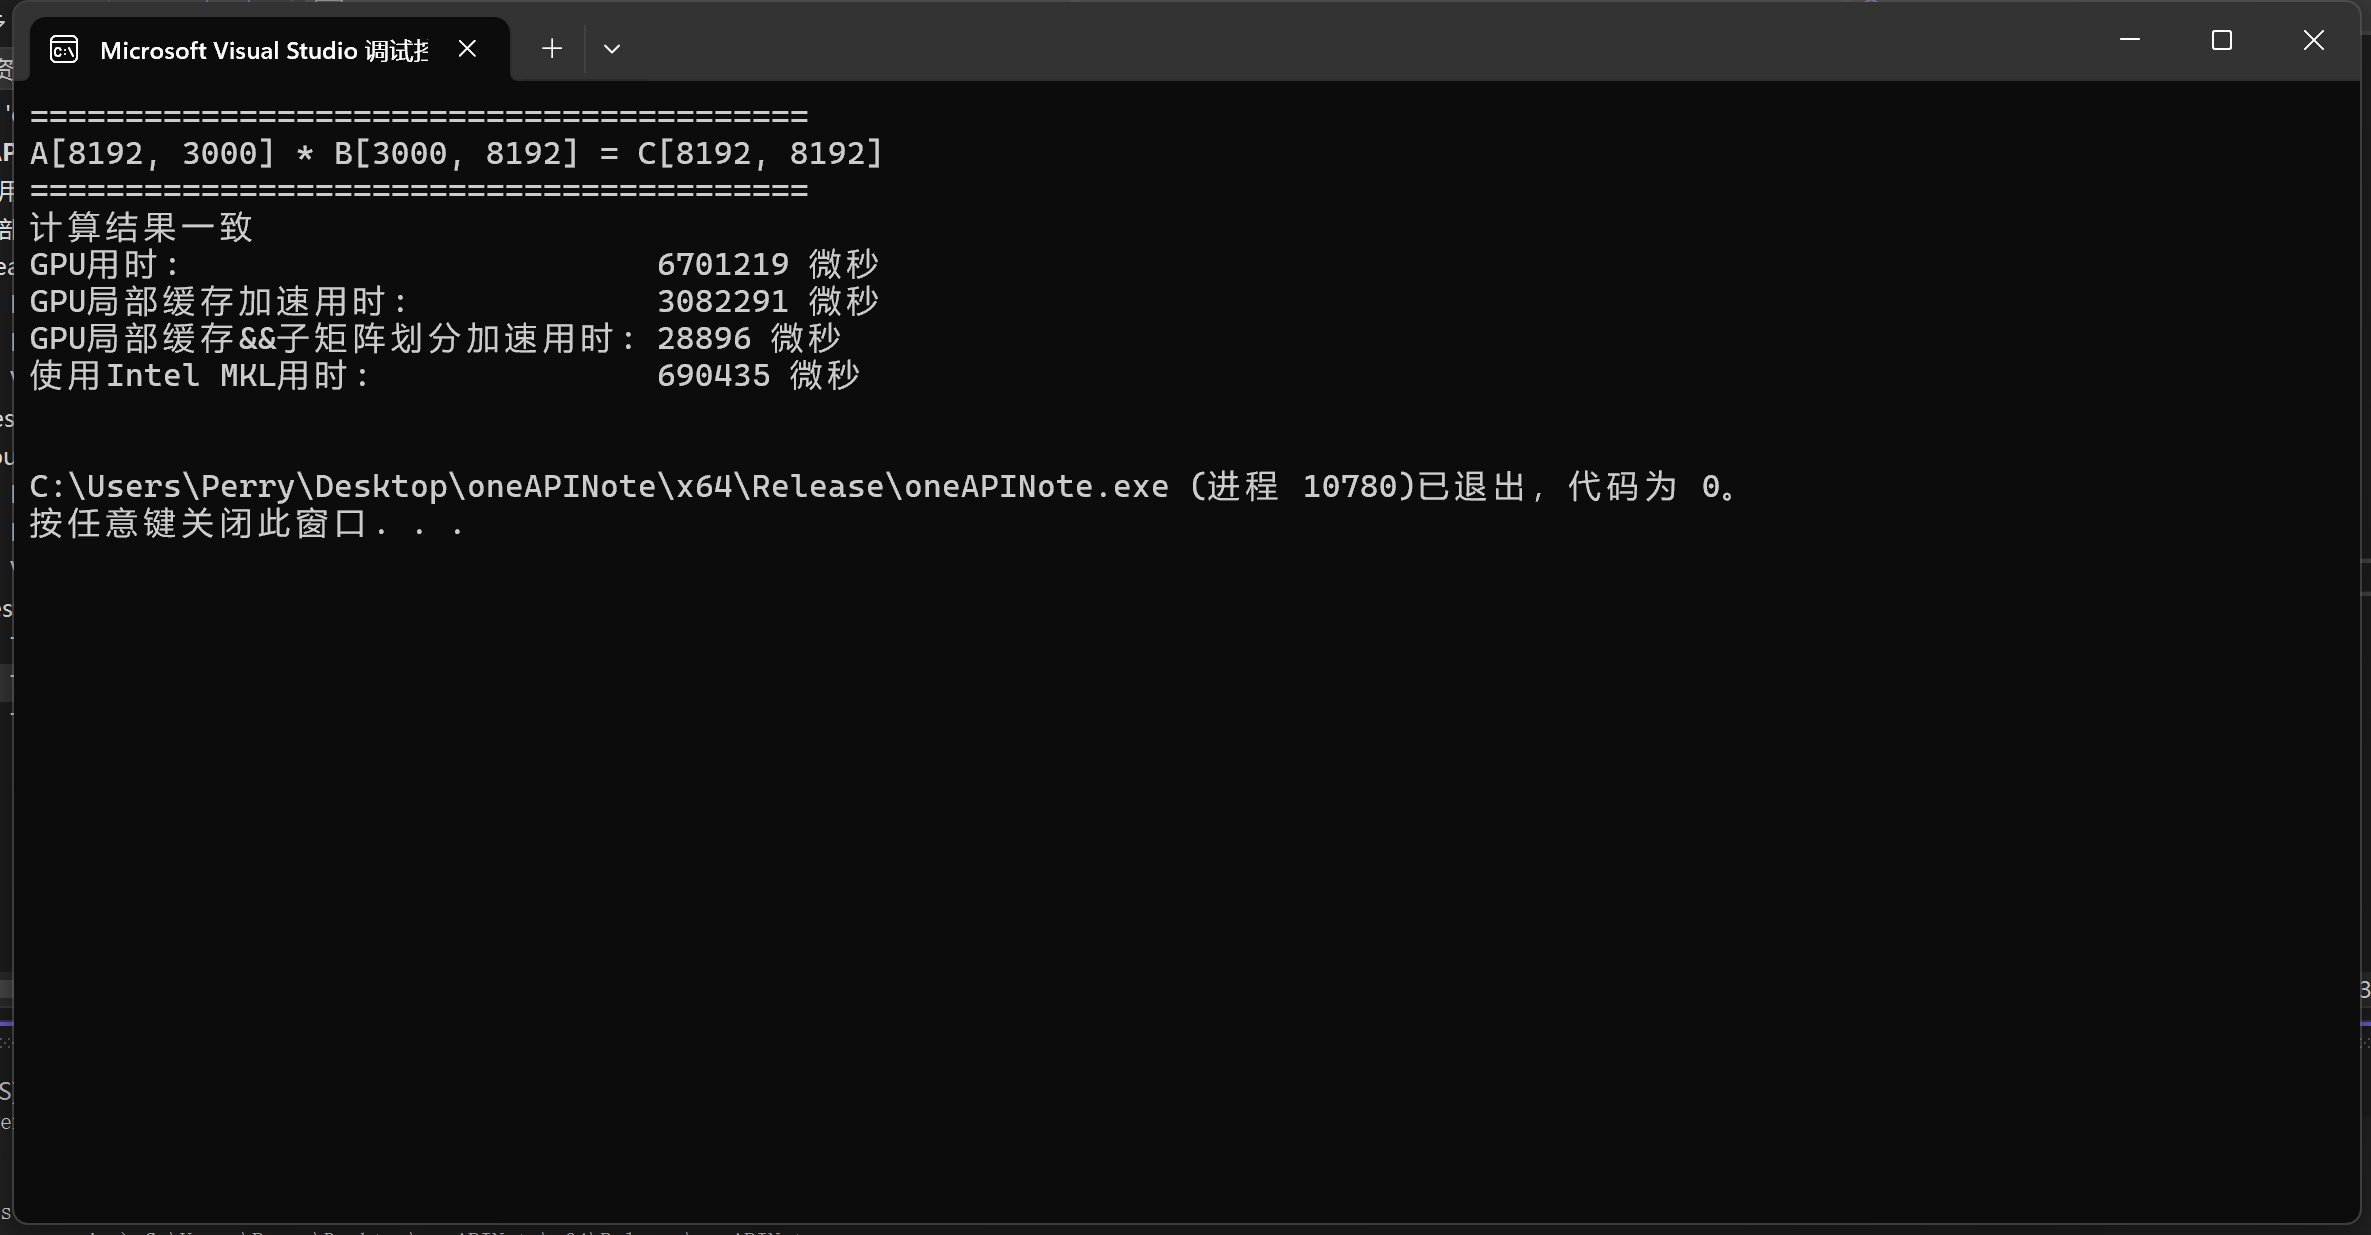
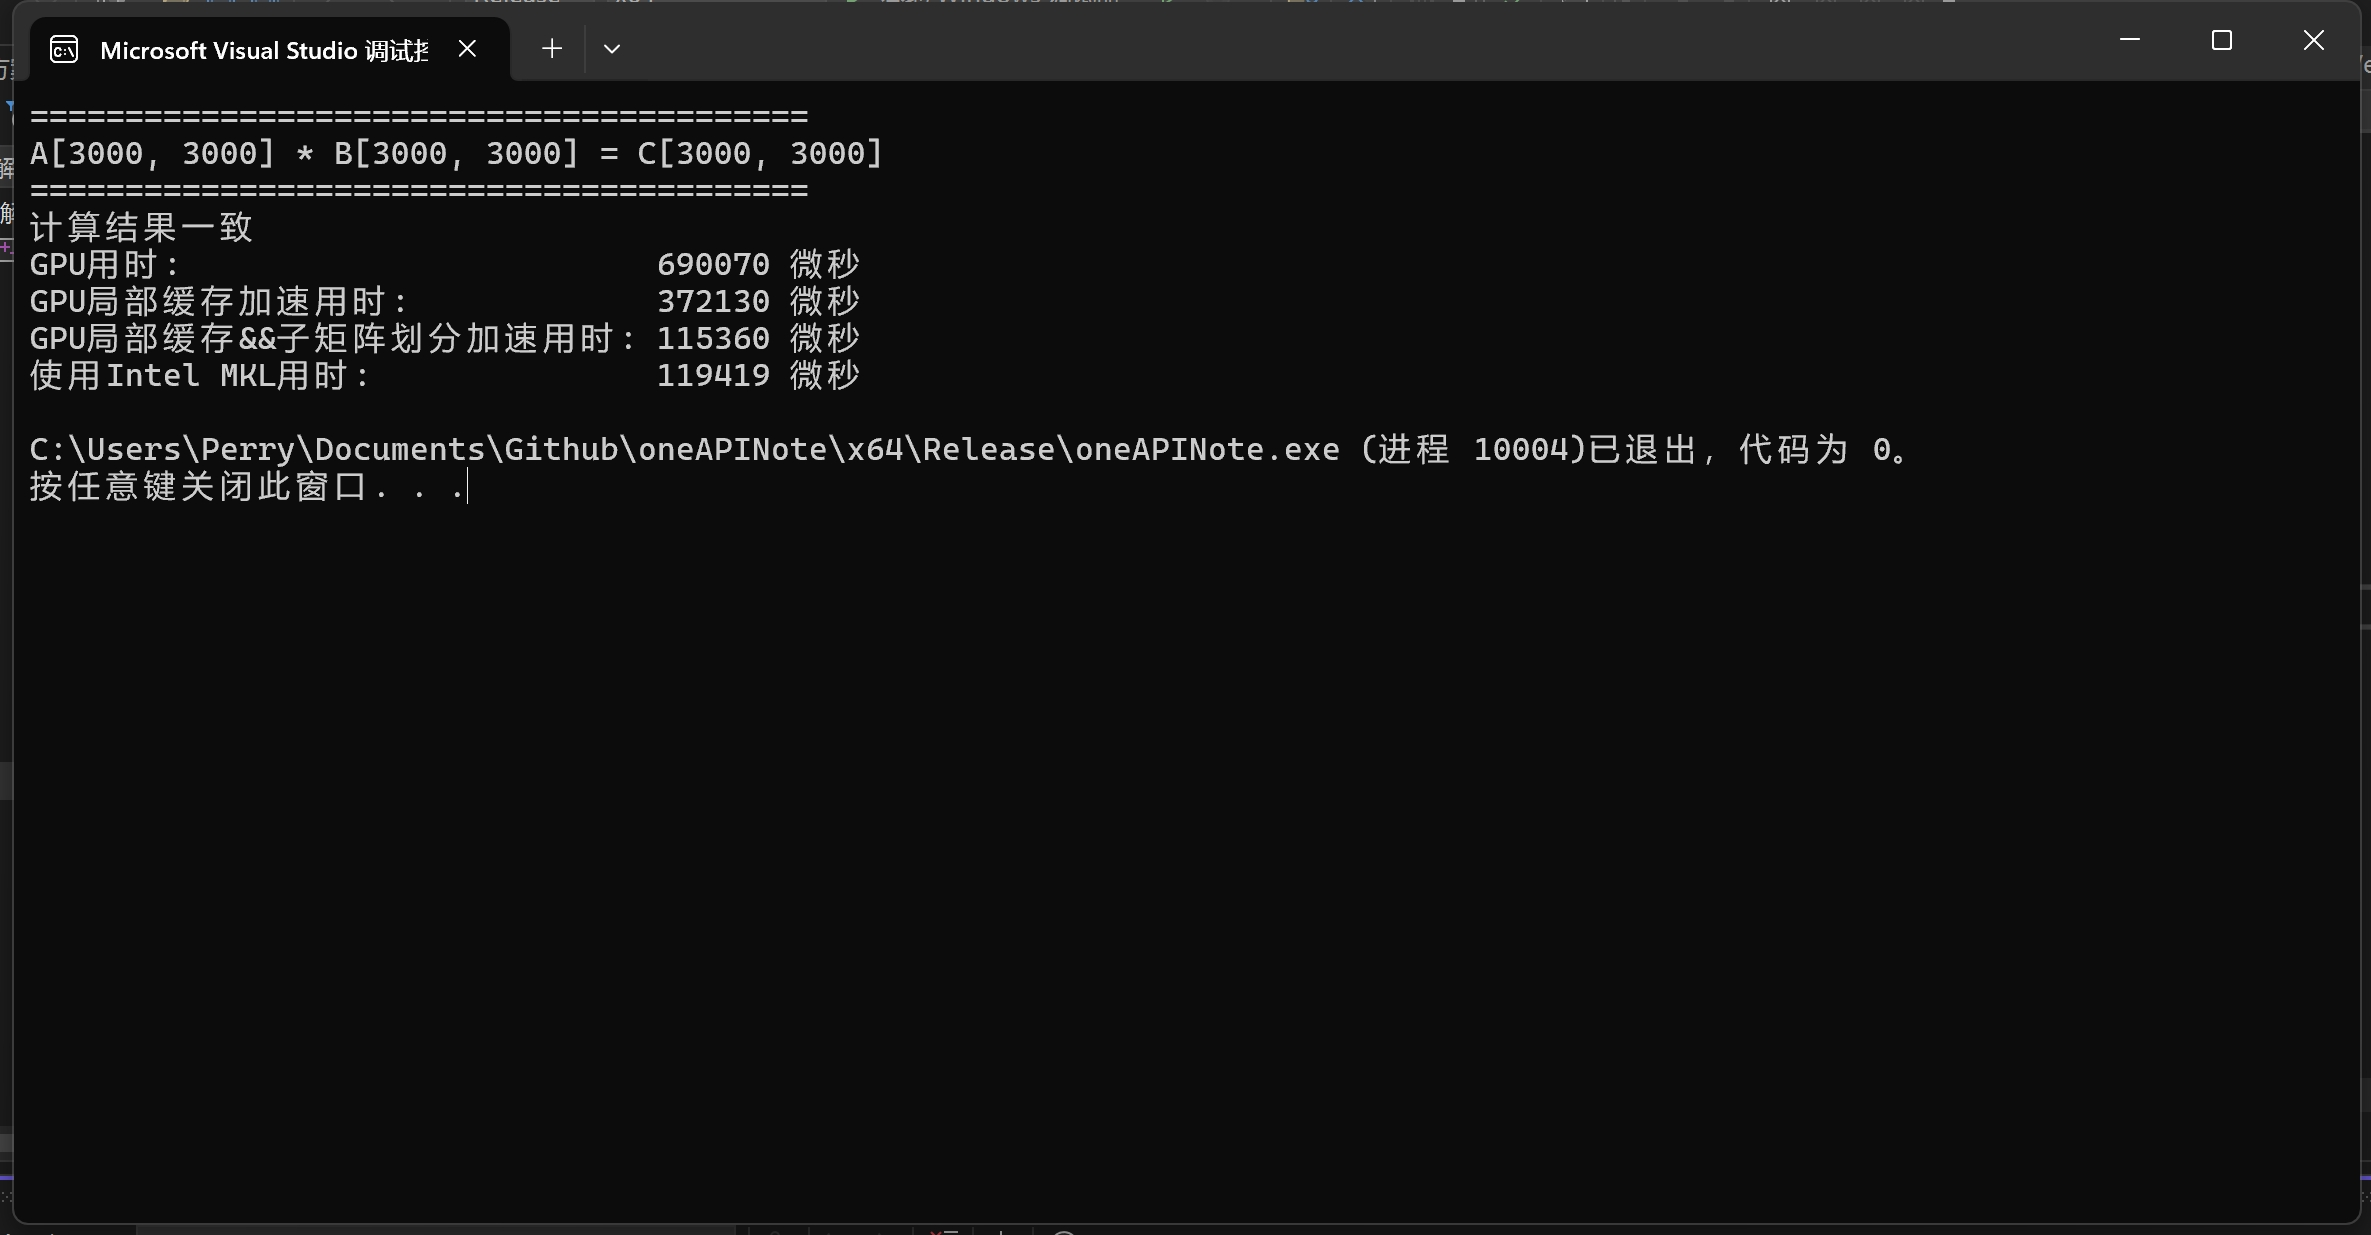
修改矩阵乘法的错误

diff --git a/README.md b/README.md
@@ -3,7 +3,7 @@
 
   <img src=".\img\machine.png" alt="machine" style="zoom:50%;" />
 
-- 项目中使用了3种方案来实现矩阵乘法，并调用了`Intel MKL`的接口来进行性能对比，最后得到了**24**倍左右的性能优势。
+- 项目中使用了3种方案来实现矩阵乘法，并调用了`Intel MKL`的接口来进行性能对比，在小矩阵时取得近乎一样的性能，大矩阵时大约慢50%左右。
 
   <img src=".\img\matrixkernel_testresult.png" alt="matrixkernel_testresult" style="zoom:50%;" />
 
